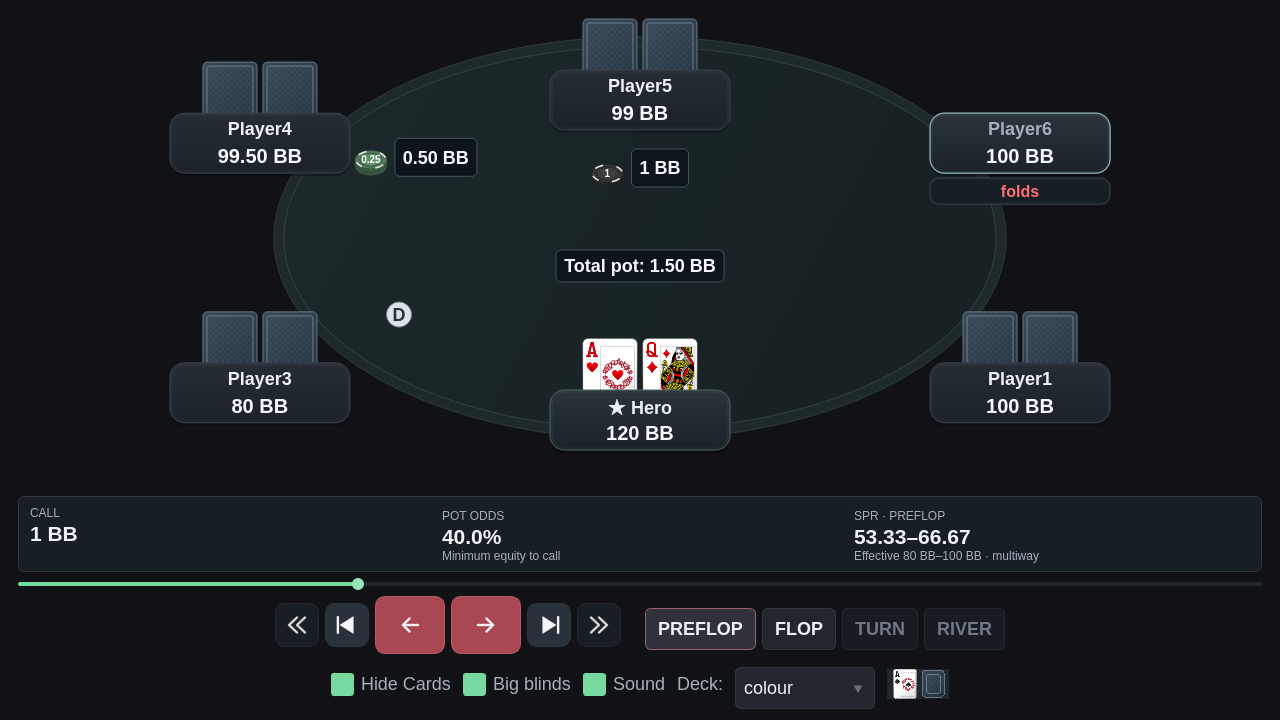
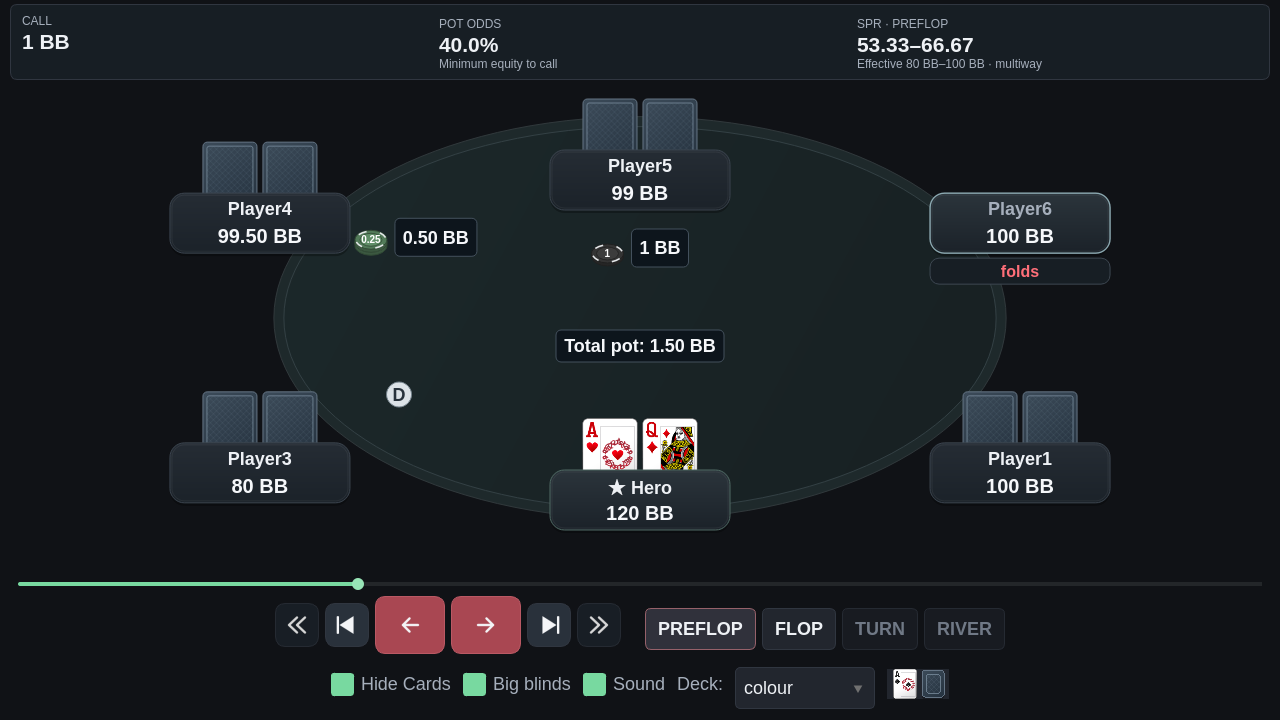
feat: move replay decision information to the top of the window

diff --git a/fpdb_3_legacy/GuiReplayer.py b/fpdb_3_legacy/GuiReplayer.py
@@ -80,8 +80,8 @@ CARD_HEIGHT = 90
 CARD_WIDTH = 70
 PLAYER_PANEL_WIDTH = 220
 PLAYER_PANEL_HEIGHT = 72
-CONTROL_RESERVED_HEIGHT = 228
-HEADER_HEIGHT = 12  # Only a top inset: the replayer has no header.
+CONTROL_RESERVED_HEIGHT = 148
+HEADER_HEIGHT = 92  # Decision strip plus clearance; no legacy header.
 CARD_REFERENCE_RESERVED_HEIGHT = 252  # Original header and control reservation.
 TIMELINE_WIDTH = 280
 TIMELINE_MIN_WINDOW_WIDTH = 1500
@@ -946,14 +946,14 @@ class GuiReplayer(QWidget):
         self.actionsButton.setShortcut("A")
         self.actionsButton.setFocusPolicy(Qt.FocusPolicy.NoFocus)
         self.actionsButton.clicked.connect(self.actions_clicked)
+        self.decisionPanel = DecisionPanel(self)
+        self.replayBox.addWidget(self.decisionPanel)
         self.replayBox.addStretch()
         self.controls = QWidget(self)
         self.controls.setFixedHeight(CONTROL_RESERVED_HEIGHT - 14)
         controls_layout = QVBoxLayout(self.controls)
         controls_layout.setContentsMargins(8, 0, 8, 0)
         controls_layout.setSpacing(4)
-        self.decisionPanel = DecisionPanel(self.controls)
-        controls_layout.addWidget(self.decisionPanel)
         controls_layout.addWidget(self.stateSlider)
         navigation = QHBoxLayout()
         navigation.setSpacing(24)

diff --git a/tests/qt/test_personal_replayer_integration.py b/tests/qt/test_personal_replayer_integration.py
@@ -241,7 +241,9 @@ def test_wide_replayer_has_only_table_and_commands_without_header_or_timeline(qt
     replayer.grab()
     assert not replayer._timeline_hit_regions
     assert replayer.decisionPanel.isVisible()
-    assert replayer.decisionPanel.parent() is replayer.controls
+    assert replayer.decisionPanel.parent() is replayer
+    assert replayer.decisionPanel.geometry().bottom() < replayer.controls.geometry().top()
+    assert replayer.decisionPanel.geometry().top() <= 10
     for mock in removed:
         mock.assert_not_called()
 
@@ -271,7 +273,7 @@ def test_command_metrics_show_turn_spr_call_odds_and_hero_mdf_without_equity_loo
     assert captured[2][0].pot_odds_pct == 25
     assert "SPR · TURN" in captured[0][1][2]
     assert "95 BB" in captured[2][1][2]
-    assert all(replayer.controls.rect().contains(label.geometry().translated(replayer.decisionPanel.pos()))
+    assert all(replayer.rect().contains(label.geometry().translated(replayer.decisionPanel.pos()))
                for label in replayer.decisionPanel.labels)
     equity.assert_not_called()
 

diff --git a/docs/REPLAYER_DECISION_STRIP.md b/docs/REPLAYER_DECISION_STRIP.md
@@ -2,12 +2,12 @@
 
 ## Organização
 
-O replayer mostra somente a mesa e a área de comandos. O header visual foi
-removido integralmente: modalidade/stake, site, ID da mão, resumo de ação,
+O replayer mostra a faixa de decisão no topo, a mesa e os comandos embaixo.
+O header visual antigo foi removido integralmente: modalidade/stake, site, ID da mão, resumo de ação,
 contagem de passos, dicas e os botões Actions/Share/Solver review. A timeline
 lateral também deixa de ocupar a janela larga.
 
-A faixa de decisão fica acima do slider e da navegação, em três posições fixas:
+A faixa de decisão fica no topo da janela, em três posições fixas:
 
 1. **Contexto:** call, bet ou investimento novo do raise, com sizing em % do pote.
 2. **Decisão:** pot odds ao enfrentar uma aposta; MDF do adversário e fold equity
@@ -71,13 +71,15 @@ Todos os cálculos usam somente o estado exibido e os estados anteriores.
 
 - **242 testes direcionados aprovados**, incluindo regressões de controles,
   cartas, fichas, BB, fold, variantes, compartilhamento e revisão de mãos.
+- A mudança da faixa para o topo foi validada com **144 testes direcionados**
+  de layout, integração Qt e posicionamento de fichas; capturas atualizadas e Ruff aprovado.
 - Dez casos aritméticos verificam SPR no flop/turn/river, estabilidade durante
   apostas, pot odds, MDF, raises, all-ins, side money, multiway, folds e ausência
   de informação futura.
 - Teste Qt confirma as três apresentações do turn: SPR sem decisão, MDF após
   bet e pot odds ao enfrentar aposta, sem executar cálculos de equidade de cartas.
 - Testes confirmam que header e timeline não são desenhados e a faixa pertence
-  à área de comandos. Ruff e mypy aprovados nos módulos alterados.
+  ao topo da janela, acima da mesa. Ruff e mypy aprovados nos módulos alterados.
 - **25 mãos reais recentes**, **944 frames** e **2.306 grupos de aposta/pote**
   reconferidos: todos dentro do feltro e sem colisão com os elementos reservados.
 - Capturas públicas em 1280×720, 1600×900 e 1260×1380; os três cenários de
@@ -90,7 +92,7 @@ QT_QPA_PLATFORM=offscreen .venv/bin/python tools/capture_replayer_review.py \
   --pokerstars-path "/caminho/absoluto/para/PokerStars"
 ```
 
-![Pot odds de 25% e SPR do turn na área de comandos](images/replayer-decisions/pot-odds-turn.png)
+![Pot odds de 25% e SPR do turn no topo da janela](images/replayer-decisions/pot-odds-turn.png)
 
 ![MDF puro e fold equity mínima após aposta de meio pote](images/replayer-decisions/mdf-turn.png)
 

diff --git a/docs/PERSONAL_SETUP.md b/docs/PERSONAL_SETUP.md
@@ -25,8 +25,8 @@ Git acima identifica precisamente o conjunto de funcionalidades incorporado.
   veja [REPLAYER_MANUAL_CONTROLS.md](REPLAYER_MANUAL_CONTROLS.md).
 - Apostas ancoradas ao dono, fichas maiores com denominações impressas e cartas
   completas da instalação local; veja [REPLAYER_POKERSTARS_CARDS.md](REPLAYER_POKERSTARS_CARDS.md).
-- Interface somente com mesa e comandos; SPR por street a partir do stack
-  efetivo, pot odds, sizing, MDF puro e FE mínima na faixa de decisão do Hero;
+- Faixa de decisão do Hero no topo, mesa e comandos embaixo; SPR por street
+  a partir do stack efetivo, pot odds, sizing, MDF puro e FE mínima;
   veja [REPLAYER_DECISION_STRIP.md](REPLAYER_DECISION_STRIP.md).
 
 ## Instalação Linux

diff --git a/docs/REPLAYER_MANUAL_CONTROLS.md b/docs/REPLAYER_MANUAL_CONTROLS.md
@@ -1,7 +1,7 @@
 # Replayer manual: controles, big blinds e fichas
 
-O layout atual remove o header e a timeline lateral e mostra as métricas de
-decisão na área de comandos; veja [REPLAYER_DECISION_STRIP.md](REPLAYER_DECISION_STRIP.md).
+O layout atual remove o header antigo e a timeline lateral e mostra as métricas
+de decisão no topo, com os comandos embaixo; veja [REPLAYER_DECISION_STRIP.md](REPLAYER_DECISION_STRIP.md).
 
 ## Mudanças solicitadas
 
